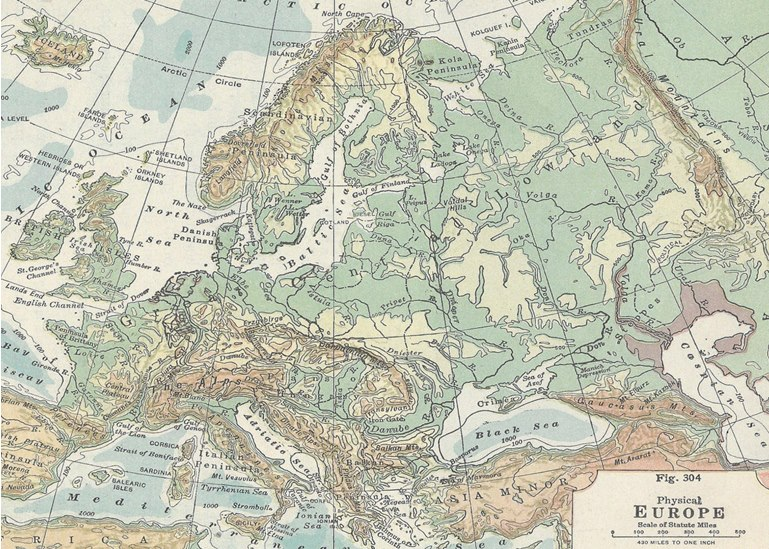
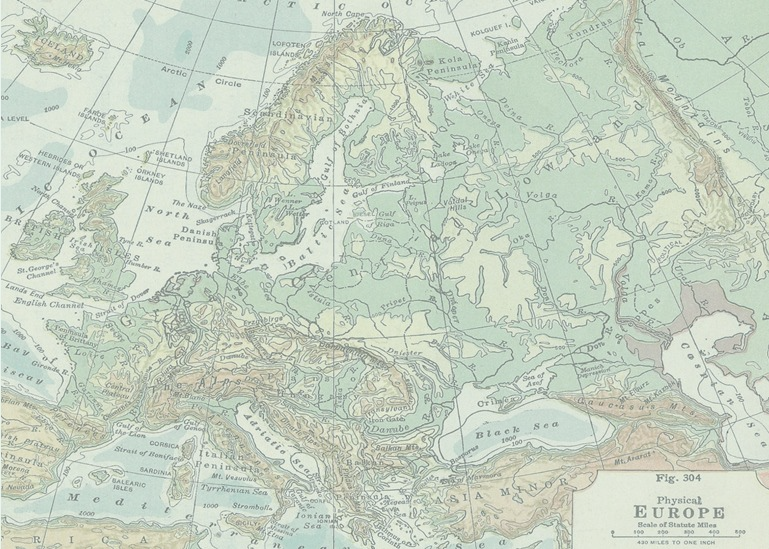
colored images

diff --git a/static/Home.css b/static/Home.css
@@ -83,7 +83,7 @@ width: 100%;
 min-height: 700px;
     height: auto !important;
     height: 700px;
-background: #FFE6CE url('images/map.jpg') no-repeat center center fixed;
+background: #FFE6CE url('images/map.png') no-repeat center center fixed;
 background-size: cover;
 top:500px;
 font-family:pix;
@@ -94,7 +94,7 @@ width: 100%;
 min-height: 100%;
     height: auto !important;
     height: 100%;
-background: url('images/browsemap.jpg') no-repeat center center fixed;
+background: url('images/browsemap.png') no-repeat center center fixed;
 background-color: #FFDBDB;
 background-size: cover;
 }
@@ -104,8 +104,10 @@ width: 100%;
 min-height: 100%;
     height: auto !important;
     height: 100%;
-background: url('images/accmap.jpg') no-repeat center center fixed;
+background: url('images/accmap.png') no-repeat center center fixed;
+
 background-color: #CEE6DA;
+
 background-size: cover;
 font-family:pix;
 }
